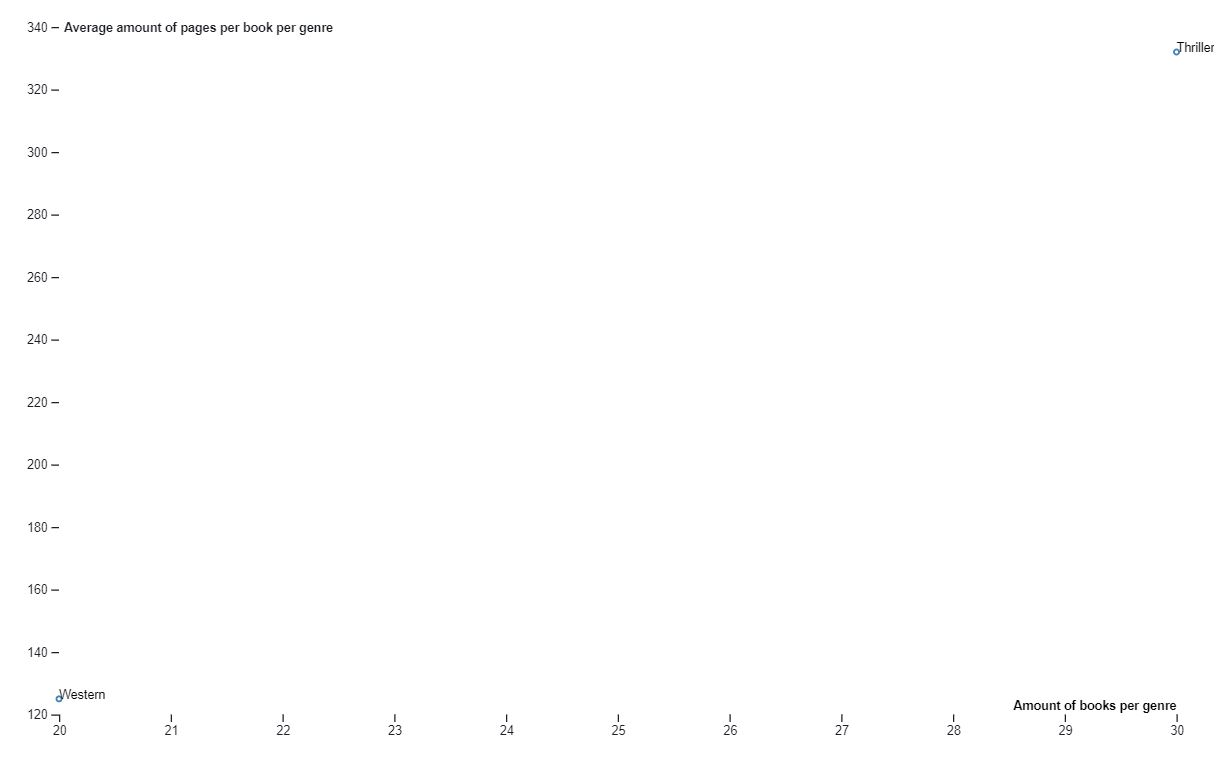
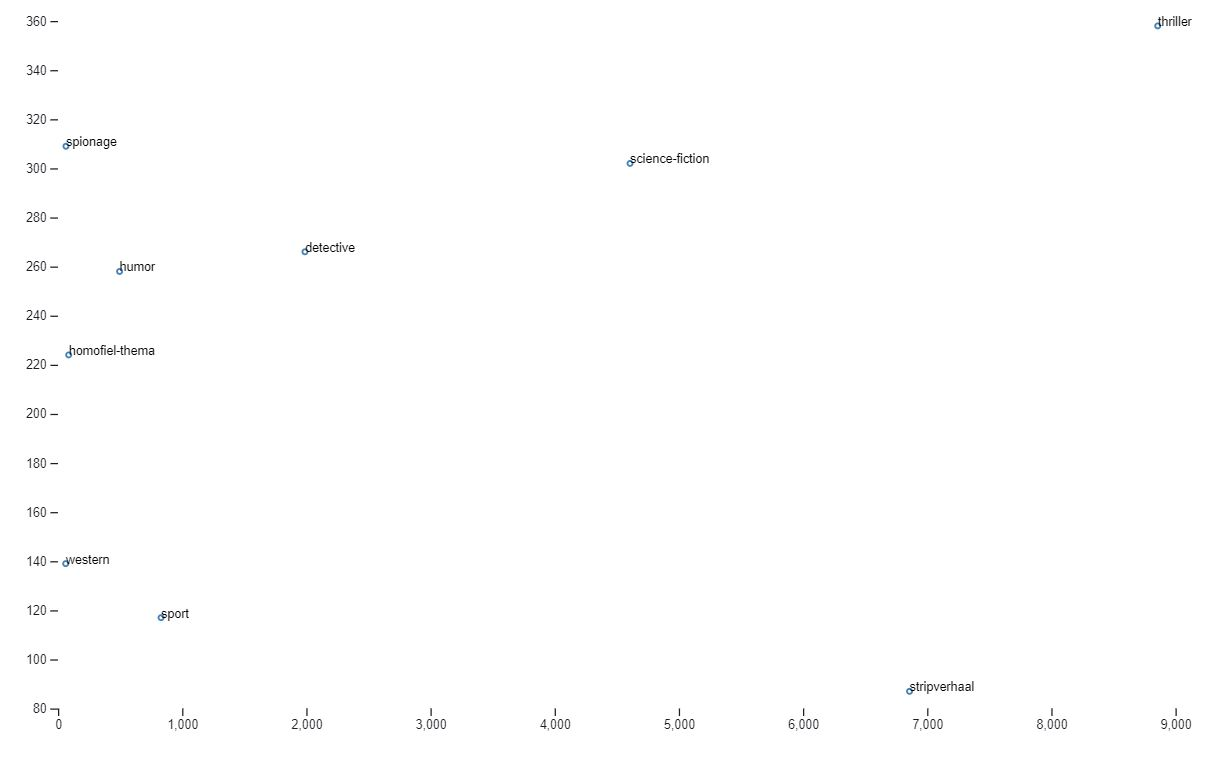
Added a lot of text to the readme

diff --git a/d3-datavis/assets/js/script.js b/d3-datavis/assets/js/script.js
@@ -1,4 +1,4 @@
-const dataset = [
+var dataset = [
   {
     'genre': 'western',
     'booksAmount': 268,
@@ -105,7 +105,7 @@ dataset.forEach((datapoint, index) => {
 
 // const width = 500
 const height = 600
-const width = Math.round(d3.select('body').node().getBoundingClientRect().width) - 50
+var width = Math.round(d3.select('body').node().getBoundingClientRect().width) - 50
 const margin = ({
   top: 20,
   right: 30,

diff --git a/README.md b/README.md
@@ -1,3 +1,5 @@
+> response: { status: 500, statusText: 'Internal Server Error' }
+
 # functional-programming ⚙
 Hier moet nog een inleiding.
 
@@ -5,8 +7,11 @@ Hier moet nog een inleiding.
 * [Onderzoeksvragen](#onderzoeksvragen-)
 * [Hypothesen](#hypothesen-)
 * [Benodigde data](#benodigde-data-)
-* [Data ophalen](#code)
-* [D3](#D3)
+* [Het verkrijgen van data](#het-verkijgen-van-data-)
+* [Data ophalen](#code-)
+* [Observable](#observable-)
+* [Meerdere pagina's ophalen uit de API](#meer-pagina's-ophalen-)
+* [D3](#d3-)
 
 ## Onderzoeksvragen 🤔
 * Welk genre heeft gemiddeld genomen het meest aantal pagina's per boek?
@@ -29,26 +34,88 @@ Gekozen onderzoeksvraag: *Welk genre heeft gemiddeld genomen het meest aantal pa
 
 Het genre van een boek haal ik inmiddels noet meer uit de data maar uit de array met genres waarvan ik de data op wil halen. De genres komen uit de [readme van Daniël.](https://github.com/DanielvandeVelde/functional-programming#cheatsheet)
 
-### Het verkrijgen van genres
+## Het verkrijgen van data 📥
 Je kan met een `/search` query filteren op genres. Helaas moet je dan een query meegeven wat er voor zorgt dat je daar op zoekt, en dan de genres er uit filtert.
 De oplossing zou zijn om het `/index` endpoint te gebruiken, want daar hoef je geen query aan mee te geven. Het probleem is echter dat ik geen genres of subjects op kan halen. `Subjects` geeft namelijk geen resultaten terug.
 Om die rede ga ik de genres met de minder precieze `/search` query doen.
 
-## Code
+## Code 🖥
 Ik heb eerst in een persoonlijk project geëxperimenteerd met promises om te zien hoe dat werkt, en zo de basis geleerd.
-Daarna ben ik promises toe gaan passen op de `getData` en `getPageAmount` functions en ben ik de pagina aantallen van boeken van een genre op gaan halen.
+Daarna ben ik promises toe gaan passen op de `getData` function en ben ik de pagina aantallen van boeken van een genre op gaan halen. Het was vooral heel veel trail & `console.log(err)`
 
-## D3
-Op aanraden van Titus ben ik maandag begonnen met kijken naar D3 voorbeelden op [observable](). Ik was namelijk nog steeds bezig met het ophalen van data. Op het moment van schrijven heb ik alleen de eerste pagina's met resultaten van 3 genres.
+## Observable 🔍
+Op aanraden van Titus ben ik maandag begonnen met kijken naar D3 voorbeelden op observable. Ik was namelijk nog steeds bezig met het ophalen van data. Op het moment van schrijven heb ik alleen de eerste pagina's met resultaten van 3 genres.
 Eerst heb ik passende datavisualisaties geschetst bij mijn data.
 ![schets datavis](/bin/img/sketch.jpg)
 Mijn voorkeur gaat naar de rechter schets omdat die meer informatie geeft.
 Vervolgens heb ik een [scatter plot van Mike Bostock](https://beta.observablehq.com/@mbostock/d3-scatterplot) geforkt en ben ik daar mee gaan spelen.
-Ik heb een beetje gekeken wat wat doet en hoe het werkt en vervolgens een beetje van mijn data er in gezet.
+Ik heb een beetje gekeken wat wat doet en hoe het werkt en vervolgens wat van mijn data er in gezet.
 ![eerste probeersel observable & D3](/bin/img/d3-scatterplot-test.JPG)
 
-## Meerdere pagina's ophalen
-Ik wilde meerdere pagina's ophalen zodat ik een grotere dataset kreeg. Op het moment dat de code af was en ik probeerde meerdere pagina's met resultaten op te halen kreeg ik geen resultaten meer terug via Rijk's npm pakketje. De API deed het wel via de browser..
+## Meerdere pagina's ophalen 📖
+Ik wilde meerdere pagina's ophalen zodat ik een grotere dataset kreeg. Op het moment dat de code af was en ik probeerde meerdere pagina's met resultaten op te halen kreeg ik geen resultaten meer terug via Rijk's node pakketje. De API deed het wel via de browser..
+Later bleek dat dit kwam doordat zijn code de staging API gebruikte. Door de link in zijn code te veranderen naar de live API werkte het wel weer.
+Ik heb toen van 10 genres alle lengtes van de pagina's en het aantal boeken in het genre opgehaald. De volgende array is het resultaat.
 
-## Todo
-* Deelvragen bedenken
+<details><summary>Array met resultaten</summary>
+  ```JSON
+  [
+      {
+          "genre": "western",
+          "booksAmount": 62,
+          "averagePages": 139
+      },
+      {
+          "genre": "spionage",
+          "booksAmount": 64,
+          "averagePages": 309
+      },
+      {
+          "genre": "homofiel-thema",
+          "booksAmount": 86,
+          "averagePages": 224
+      },
+      {
+          "genre": "humor",
+          "booksAmount": 496,
+          "averagePages": 258
+      },
+      {
+          "genre": "sport",
+          "booksAmount": 830,
+          "averagePages": 117
+      },
+      {
+          "genre": "detective",
+          "booksAmount": 1989,
+          "averagePages": 266
+      },
+      {
+          "genre": "science-fiction",
+          "booksAmount": 4607,
+          "averagePages": 302
+      },
+      {
+          "genre": "stripverhaal",
+          "booksAmount": 6858,
+          "averagePages": 87
+      },
+      {
+          "genre": "thriller",
+          "booksAmount": 8857,
+          "averagePages": 358
+      }
+  ]
+  ```
+</details>
+
+Wel werd mij later verteld dat je `format:book` als query mee kan geven waardoor je alle boeken op kan halen. Dit kon ik combineren met het facet `genre(western)` om alle boeken van het genre western op te halen. Ik moest dus opnieuw alle data ophalen.
+
+## D3 📈
+Vervolgens ben ik lokaal een scatterplot gaan maken met de bovenstaande data en de scatterplot op Observable. Ik heb kleine stukjes gekopiërd, gekeken wat het doet en wat het nodig heeft en bij bijna alles een comment geplaatst wat het doet. Daarna heb ik de code aangepast aan hoe ik mijn datavisualisatie wilde hebben.
+Dit was mijn eerste probeersel.
+![eerste versie datavis](/bin/img/scatterplot-1.JPG)
+Na wat finetunen en uitvogelen hoe ik het `.domain()` kon vergroten kwam ik tot het volgende resultaat.
+![tweede versie datavis](/bin/img/scatterplot-2.JPG)
+
+## Conclusie
